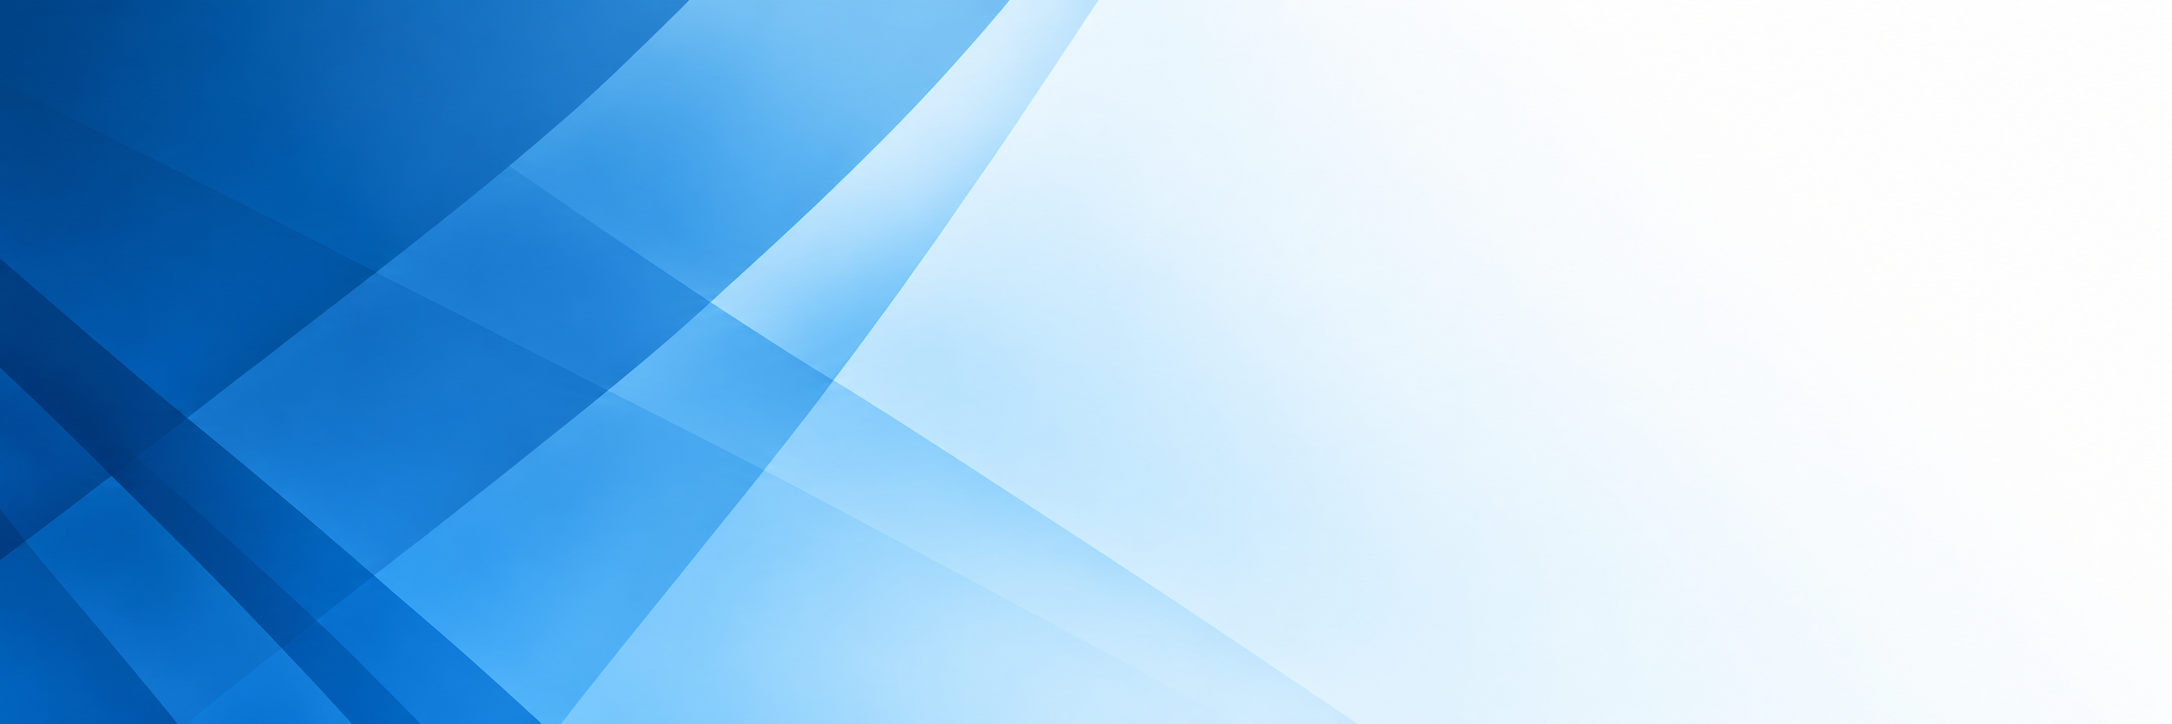
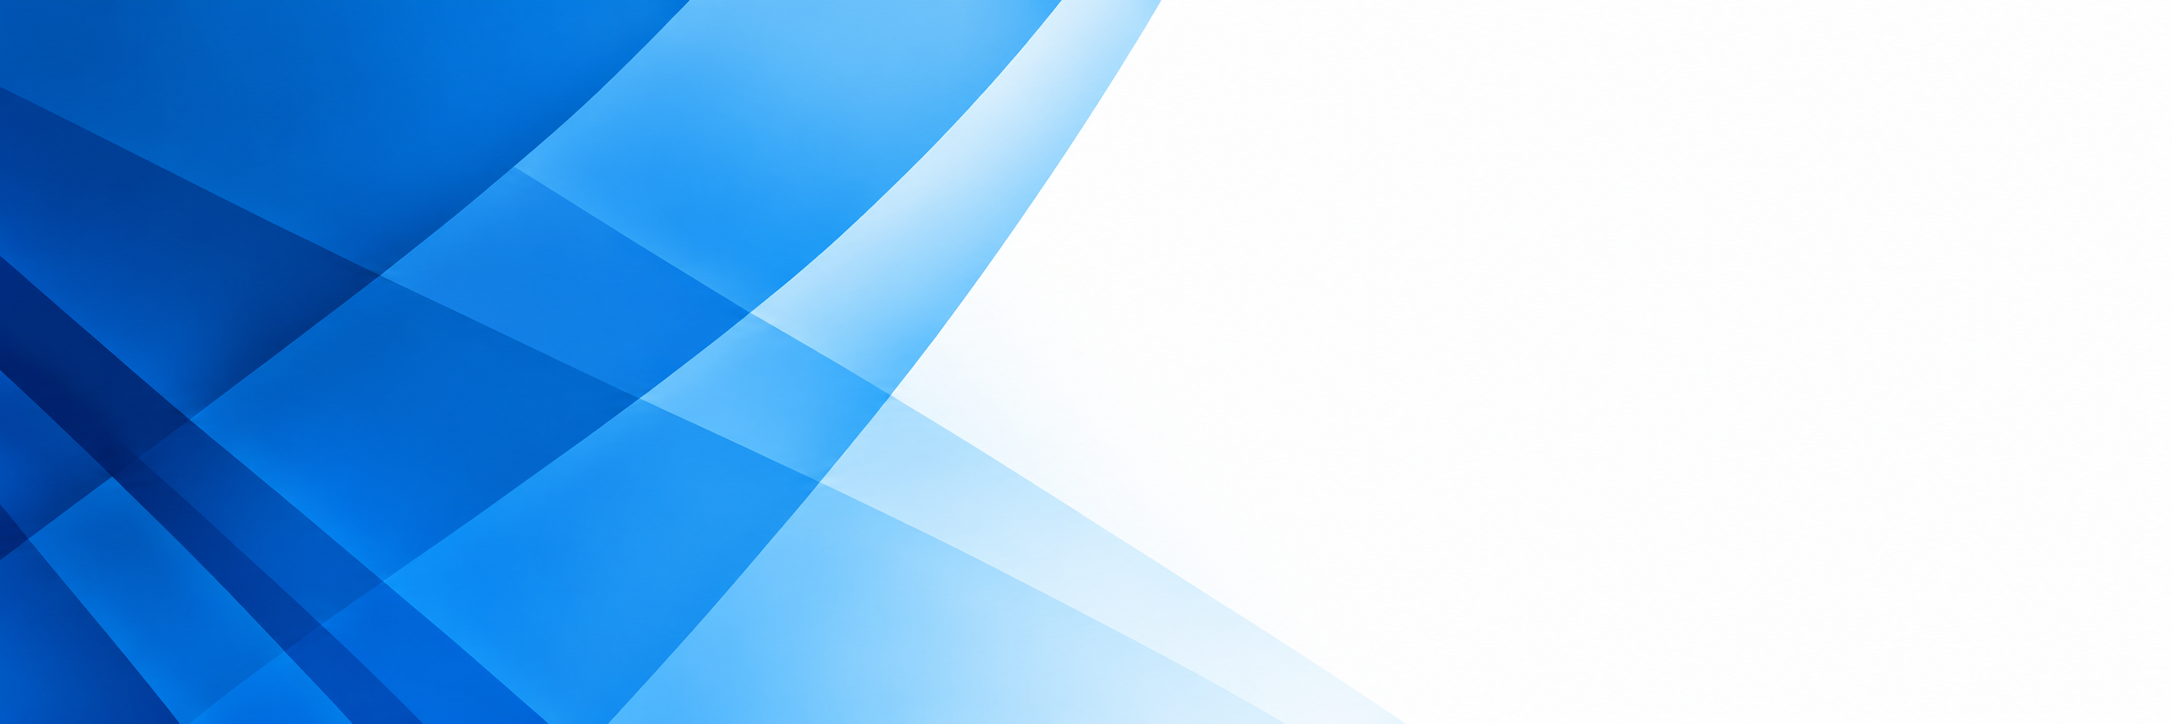
ajustes

diff --git a/index.html b/index.html
@@ -280,13 +280,13 @@
         aria-controls="mobileMenu"
         class="md:hidden w-9 h-9 flex items-center justify-center rounded  shrink-0">
         <svg xmlns="http://www.w3.org/2000/svg" class="w-5 h-5 text-white" fill="none" viewBox="0 0 24 24"
-          stroke="currentColor" stroke-width="2">
+          stroke="currentColor" stroke-width="3">
           <path stroke-linecap="round" stroke-linejoin="round" d="M4 6h16M4 12h16M4 18h16" />
         </svg>
       </button>
 
       <!-- Logotipo -->
-      <a href="/index.html" class="flex items-center">
+      <a href="/index.html" class="flex items-center mr-28 sm:mr-">
         <img src="./frontend/imgs/logo.png" alt="Nome da Empresa"
           class="h-12 sm:h-16 lg:h-18 w-auto max-w-[130px] sm:max-w-none object-contain">
       </a>
